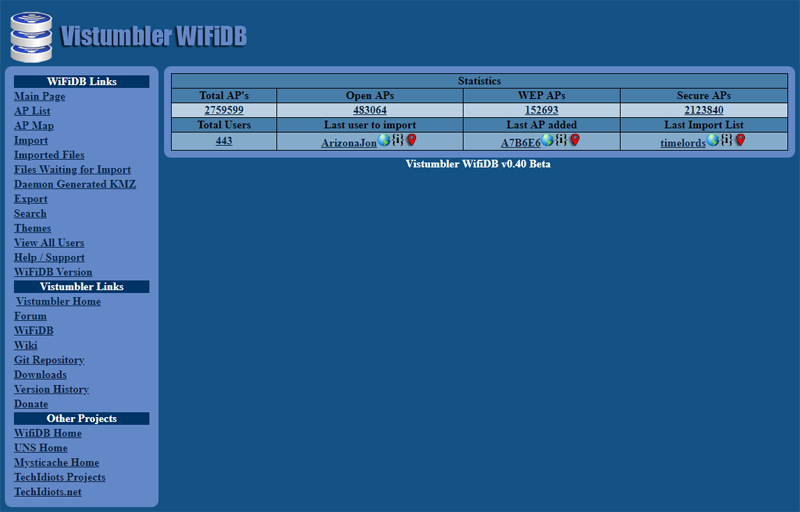
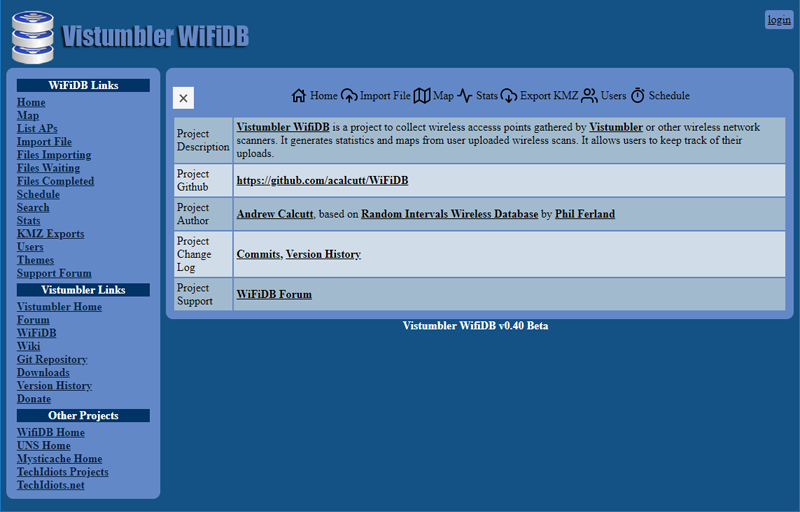
added top menu bar based of the home page

diff --git a/wifidb/wifidb/themes/vistumbler_mobile/html5style.css b/wifidb/wifidb/themes/vistumbler_mobile/html5style.css
@@ -216,7 +216,16 @@ th, td {
 	border-radius: 4px;
 	padding: 4px; 
 }
+.lefttm{
+    float:left;
+    display: inline;
+}
 
+.righttm{
+    float:center;
+    display: inline;
+	margin: 5px auto;
+}
 
 a, a:hover, a:focus {
     color: inherit;
@@ -332,8 +341,8 @@ ul.CTAs a {
 }
 
 #sidebarCollapse {
-    width: 40px;
-    height: 40px;
+    width: 30px;
+    height: 30px;
     background: #f5f5f5;
     cursor: pointer;
 }
@@ -384,7 +393,6 @@ ul.CTAs a {
 		background: #6388C7;
 		border-radius: 10px;
 		padding: 10px; 
-		min-width: 350px;
 		word-wrap: break-word;
 	}
 
